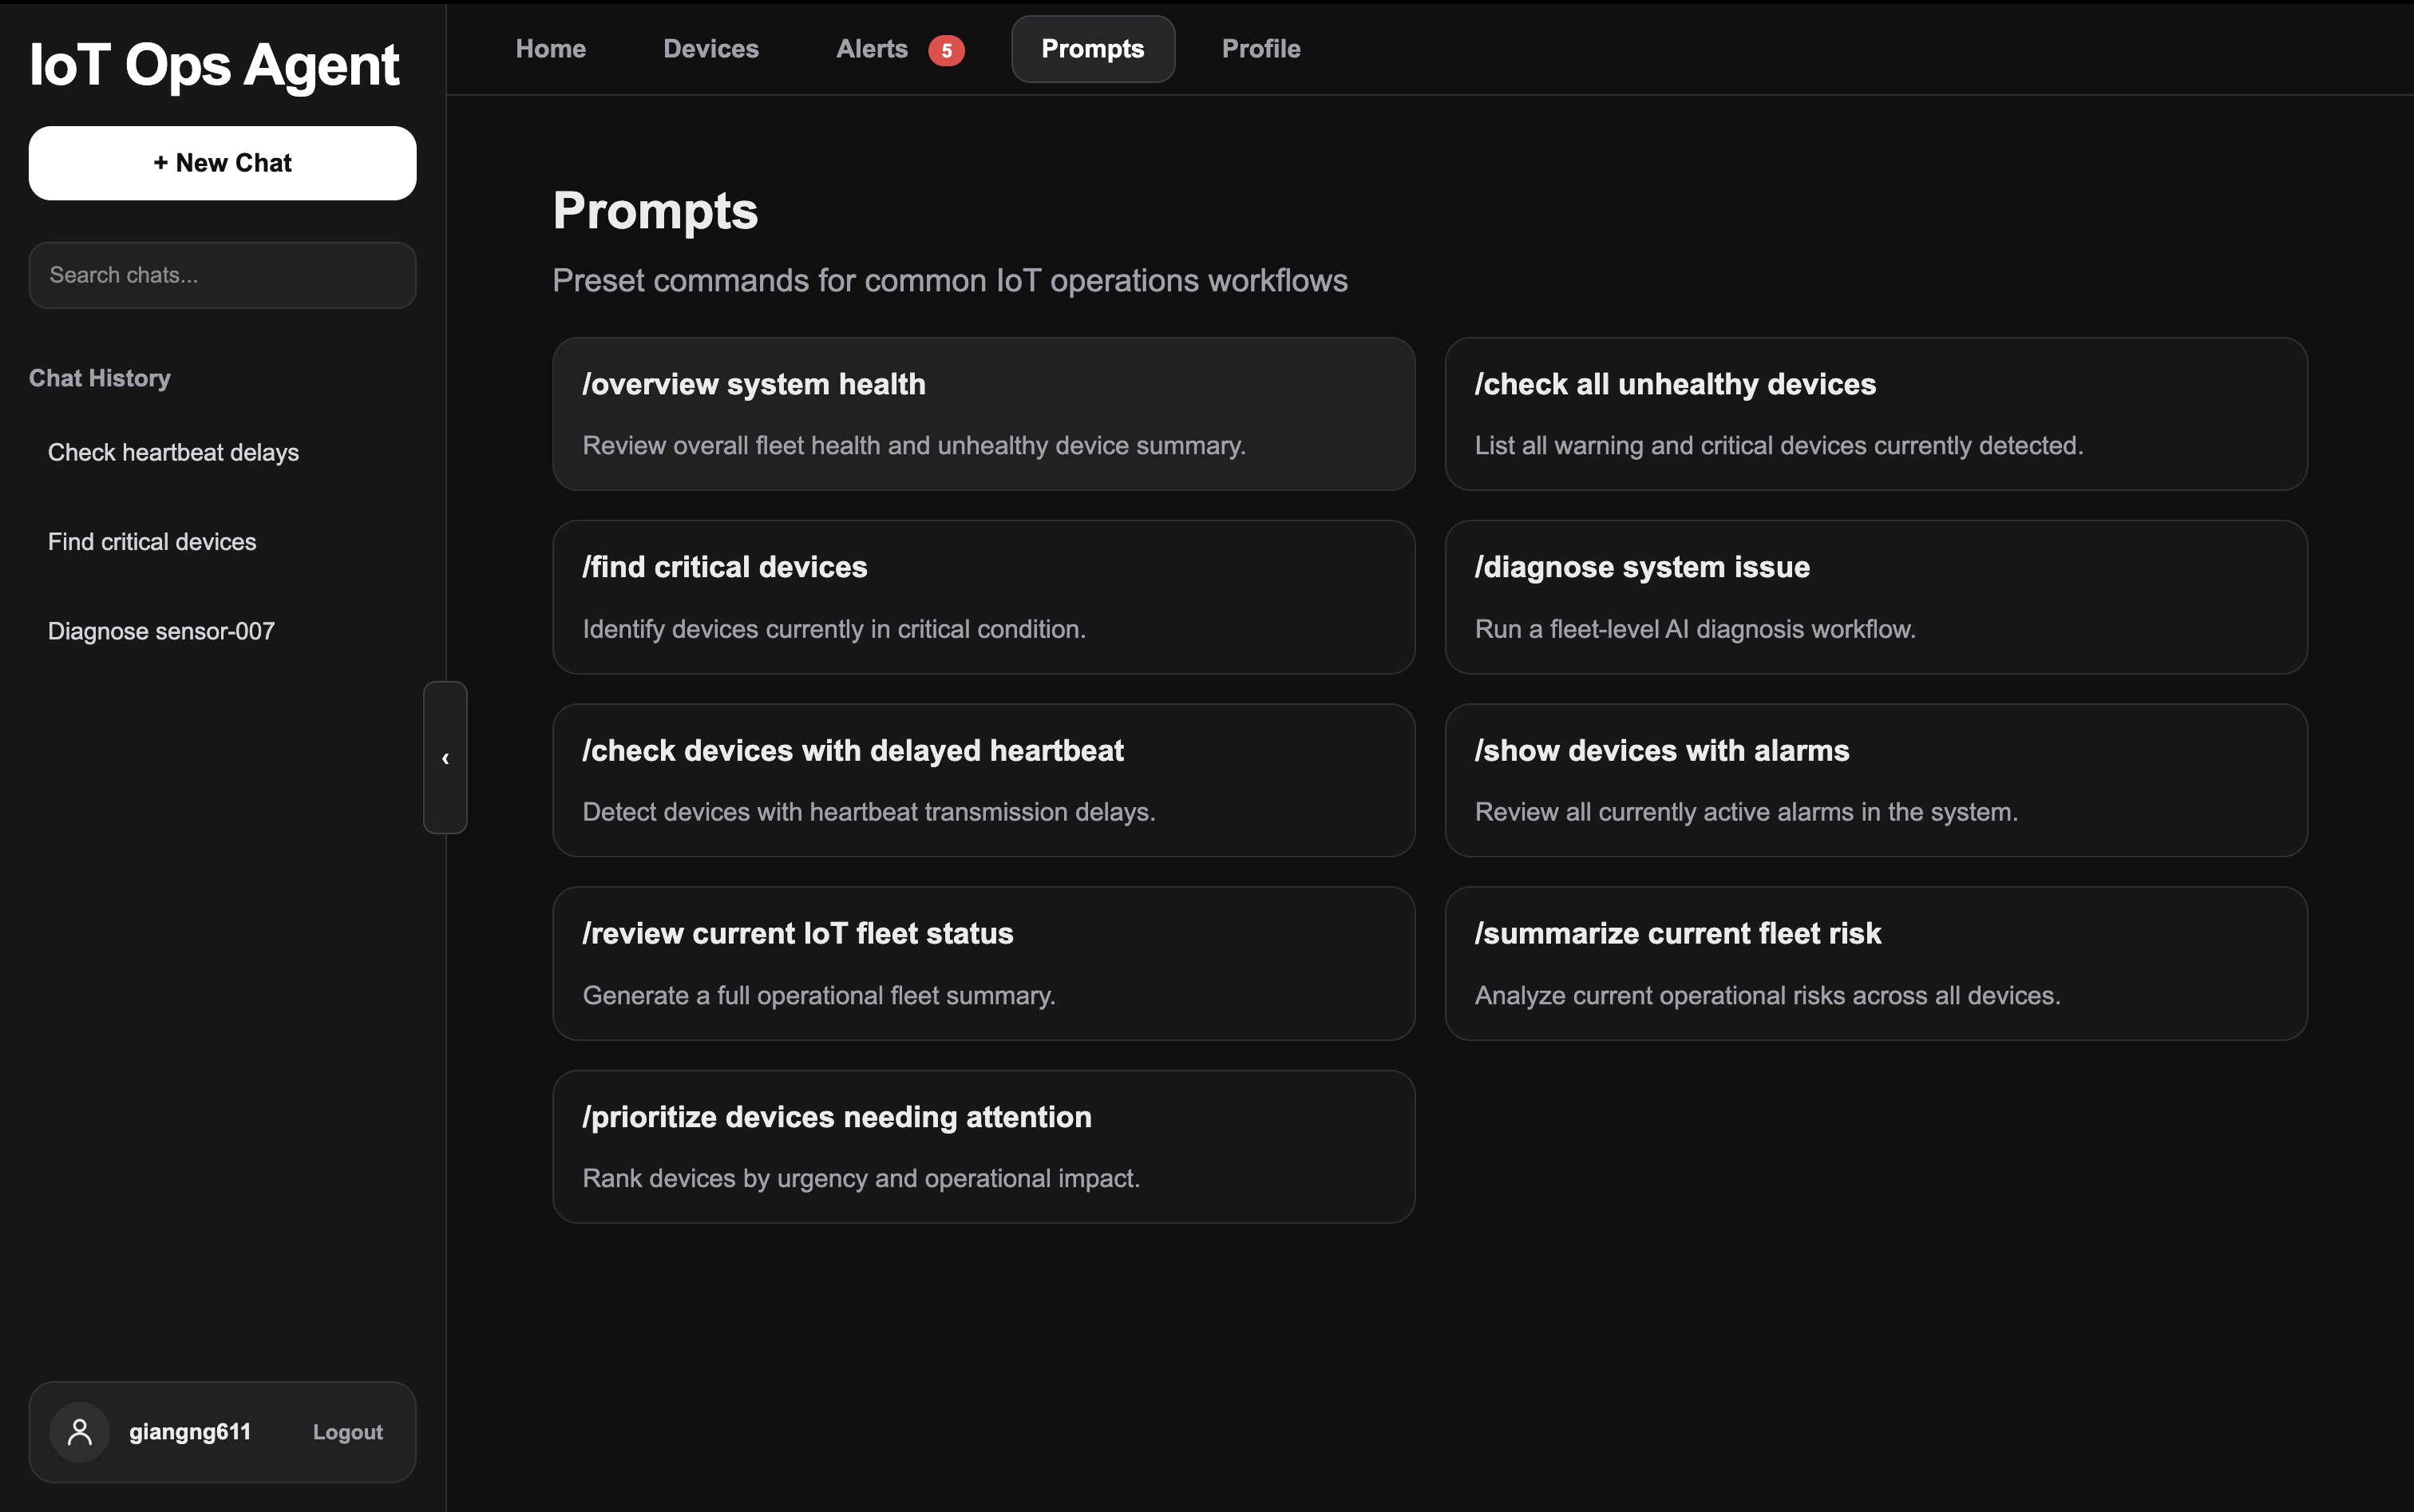
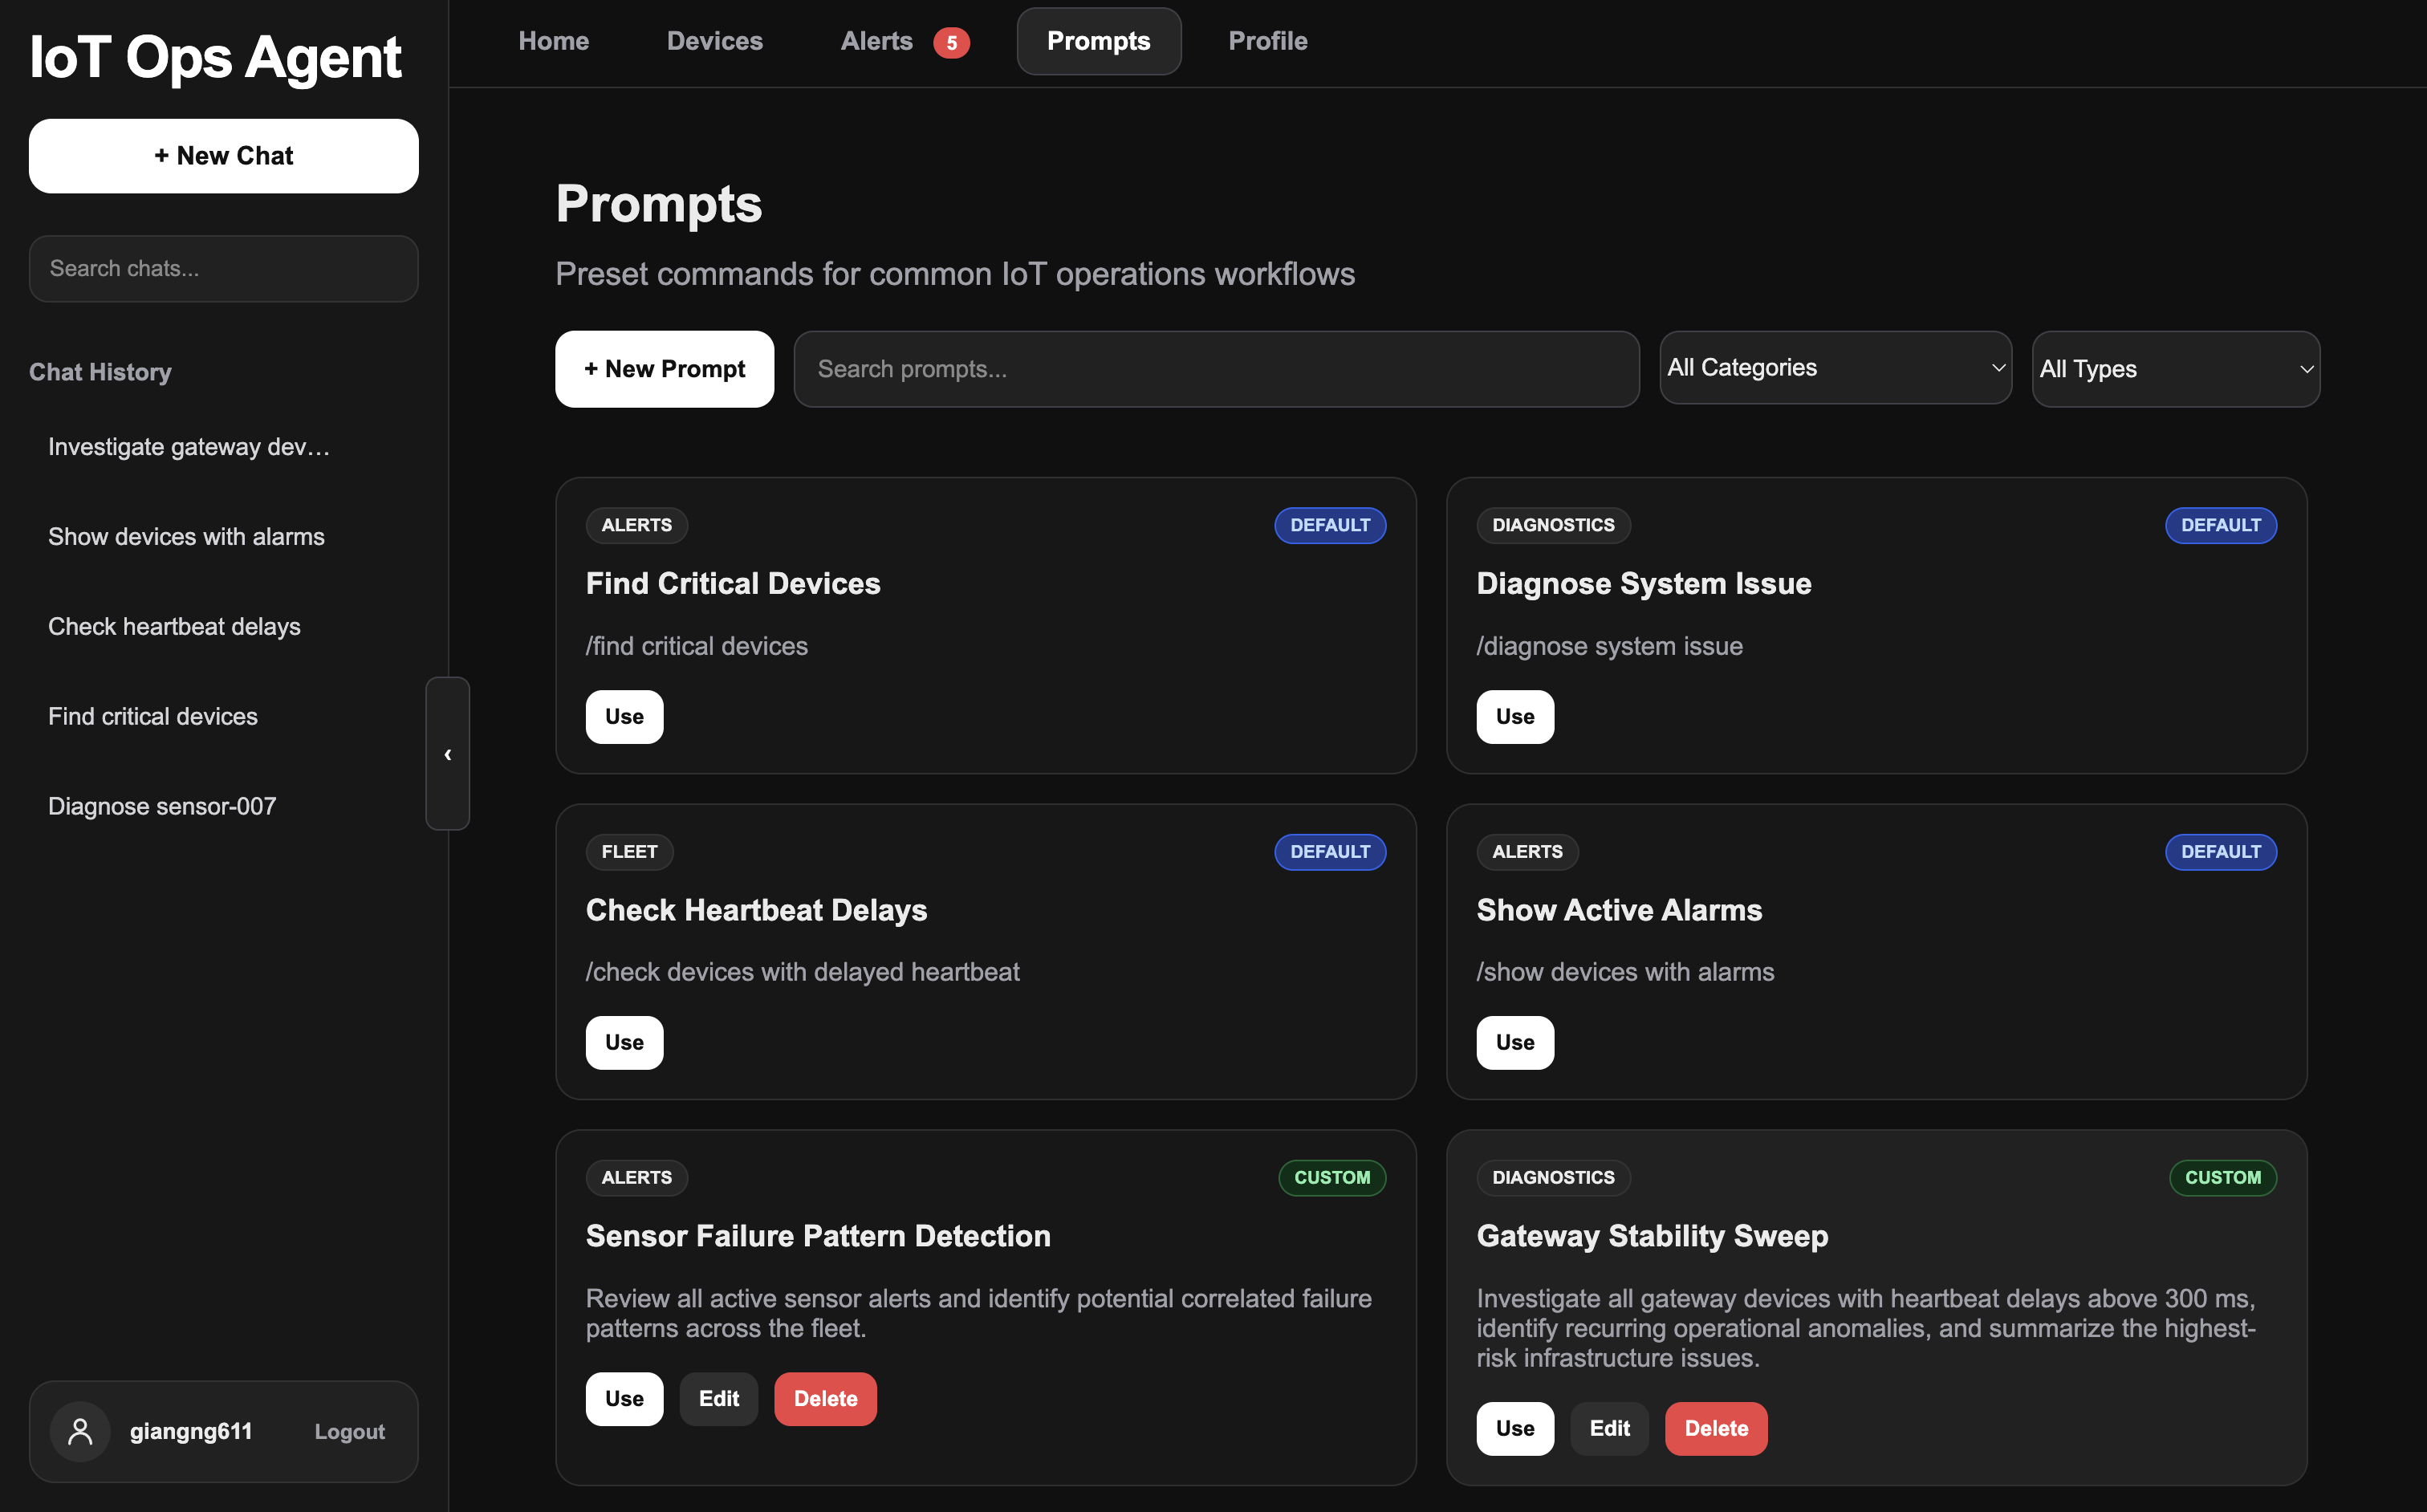
Update FEATURES.md and screenshots

diff --git a/docs/FEATURES.md b/docs/FEATURES.md
@@ -1,140 +1,181 @@
 # Features
 
-This document describes the main product features in IoT Ops Agent.
+IoT Ops Agent combines realtime IoT monitoring, AI-assisted diagnostics, persistent chat workflows, and operational fleet management into a single platform.
 
 ---
 
-## Agent Modes
+## Realtime AI Operations Workspace
 
-## IOA v1 — Single-Step Tool Calling
+The home workspace supports:
 
-- Selects one tool per request
-- Produces direct answers
-- Useful for simple device checks
-- Demonstrates basic LLM tool use
+- IOA v1 single-step diagnosis
+- IOA v2 multi-step reasoning
+- Streaming responses
+- Live typing effects
+- Persistent reasoning traces
+- Timestamped conversations
+- Chat history persistence
+- Busy-state protection during execution
 
----
-
-## IOA v2 — Multi-Step Reasoning Agent
-
-- Uses ReAct-style investigation
-- Calls multiple tools when needed
-- Streams reasoning trace live
-- Supports system-level and device-level diagnosis
-- Tracks previous device context
+<p align="center">
+  <img src="../screenshots/dashboard.png" width="1000">
+</p>
 
 ---
 
-## Realtime Telemetry
+## ReAct-Style Reasoning Trace
 
-The telemetry simulator generates changing device metrics over time.
+IOA v2 streams intermediate reasoning steps using a multi-step ReAct workflow.
 
-Each device has:
+The reasoning drawer displays:
+
+- thought generation
+- tool actions
+- observations
+- streamed JSON outputs
+- final answer generation
+
+<p align="center">
+  <img src="../screenshots/reasoning-trace.png" width="1000">
+</p>
+
+---
+
+## Device Fleet Monitoring
+
+The Devices tab provides realtime fleet visibility.
+
+Features include:
+
+- live telemetry updates
+- device search
+- status filtering
+- sorting by operational metrics
+- fleet health visualization
+- average telemetry charts
+- direct device diagnosis
+- telemetry history inspection
+
+<p align="center">
+  <img src="../screenshots/devices-tab.png" width="1000">
+</p>
+
+---
+
+## Historical Telemetry Analysis
+
+Each device includes a telemetry history modal for operational investigation.
+
+Charts display:
+
+- CPU trends
+- memory trends
+- heartbeat delay trends
+- historical timestamps
+- operational warning thresholds
+
+<p align="center">
+  <img src="../screenshots/telemetry-history.png" width="1000">
+</p>
+
+---
+
+## Operational Alert Center
+
+The Alerts tab provides realtime operational incident management.
+
+Features include:
+
+- critical/warning tracking
+- acknowledge workflows
+- resolve workflows
+- alert state timestamps
+- active incident monitoring
+- persistent alert visibility
+- direct diagnosis actions
+- fleet risk prioritization
+
+<p align="center">
+  <img src="../screenshots/alerts-tab.png" width="1000">
+</p>
+
+---
+
+## Prompt Workflow System
+
+The Prompts tab acts as an operational workflow catalog.
+
+Features include:
+
+- default system prompts
+- custom prompts
+- prompt CRUD operations
+- category filtering
+- default/custom filtering
+- prompt search
+- slash-command integration
+- persistent prompt storage
+
+<p align="center">
+  <img src="../screenshots/prompts-tab.png" width="1000">
+</p>
+
+---
+
+## Profile & Workspace Management
+
+The Profile tab centralizes account and workspace controls.
+
+Features include:
+
+- account overview
+- security settings
+- password updates
+- workspace explanations
+- operational preferences
+- profile side drawer
+
+<p align="center">
+  <img src="../screenshots/profile-tab.png" width="1000">
+</p>
+
+---
+
+## Authentication & Session Management
+
+The platform includes a complete authentication flow.
+
+Features include:
+
+- registration
+- login
+- logout confirmation
+- session persistence
+- protected routes
+- password hashing
+
+<p align="center">
+  <img src="../screenshots/login-screen.png" width="1000">
+</p>
+
+---
+
+## Realtime Telemetry Simulation
+
+The backend simulates an operational IoT fleet with continuously updating telemetry.
+
+Each device tracks:
 
 - CPU usage
 - memory usage
 - heartbeat delay
-- status
-- log message
-- alarm state
+- operational status
+- telemetry timestamps
 
----
+The simulation powers:
 
-## WebSocket Live Updates
-
-The frontend updates automatically using WebSocket events.
-
-Live updates affect:
-
-- device table
-- alert badge
-- alert center
-- fleet charts
-
----
-
-## Devices Tab
-
-The Devices tab includes:
-
-- realtime device inventory
-- status filtering
-- search by device ID
-- sorting by priority, CPU, memory, heartbeat, and timestamp
-- priority scoring
-- diagnose button
-- history button
-
----
-
-## Fleet Charts
-
-Fleet-level charts include:
-
-- health distribution
-- average CPU usage
-- average memory usage
-- average heartbeat delay
-
----
-
-## Device History Charts
-
-Each device has a historical telemetry chart showing:
-
-- CPU trend
-- memory trend
-- heartbeat delay trend
-- warning threshold baselines
-
----
-
-## Alerts Dashboard
-
-The Alerts tab shows:
-
-- active warning devices
-- active critical devices
-- alert counts
-- device-level alert details
-- diagnose and history actions
-
----
-
-## Chat Workspace
-
-The chat workspace supports:
-
-- IOA v1 and IOA v2 mode selection
-- streaming AI responses
-- live reasoning trace drawer
-- persistent chat history
-- searchable chat history
-- pinned chats
-- delete chat action
-
----
-
-## Authentication
-
-The app includes local authentication:
-
-- register account
-- login
-- logout confirmation
-- Flask session handling
-- password hashing
-- password update workflow
-
----
-
-## Profile Workspace
-
-The Profile tab includes:
-
-- account overview
-- security settings
-- chat history explanation
-- workspace details
-- notification explanation
-- interactive right-side profile drawer
+- fleet dashboards
+- alerts
+- AI diagnosis
+- telemetry charts
+- operational reasoning workflows